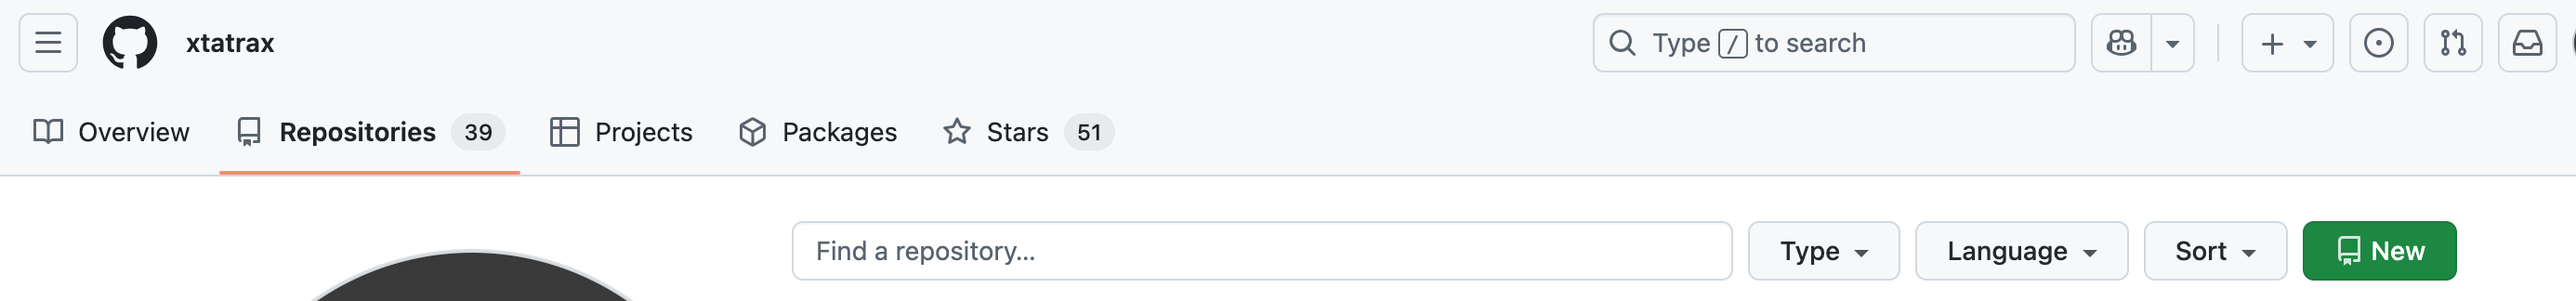
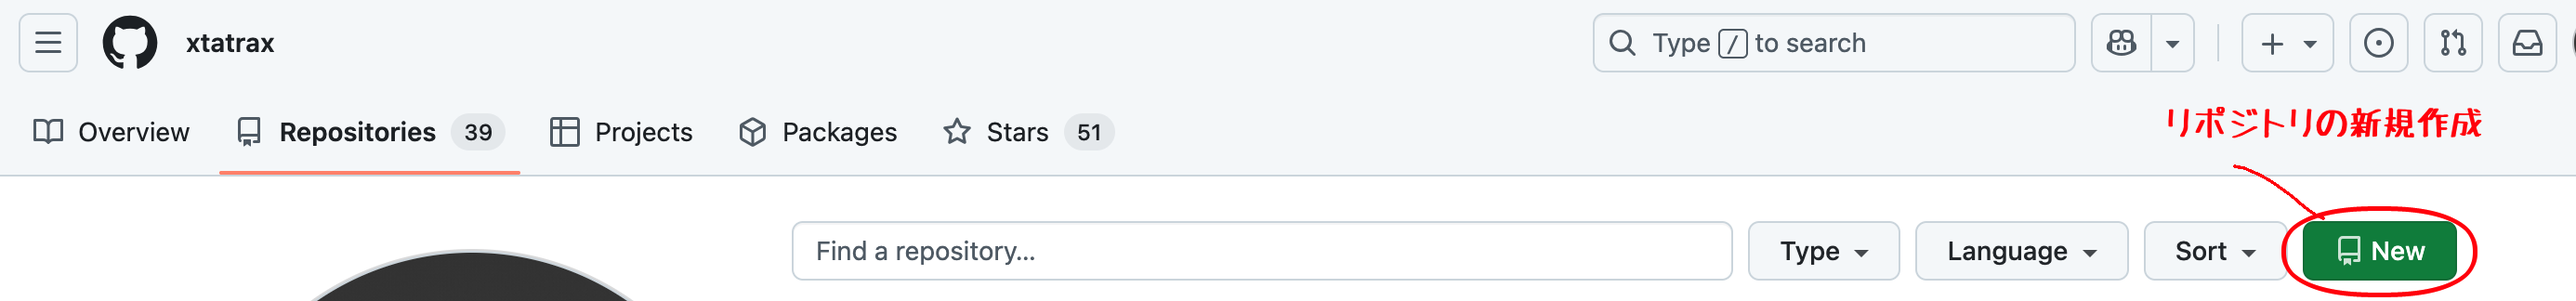
new-repo画像の編集と git のソースへのリンク

diff --git a/README.md b/README.md
@@ -155,4 +155,8 @@ https://qiita.com/nanarya/items/6fbae1cb5efc3ea99eba
 
 https://qiita.com/ktkraoichi/items/f6ad43c2da0b3136d6be
 
+# gitの中身
+
+https://github.com/git/git
+
 [EOF]
